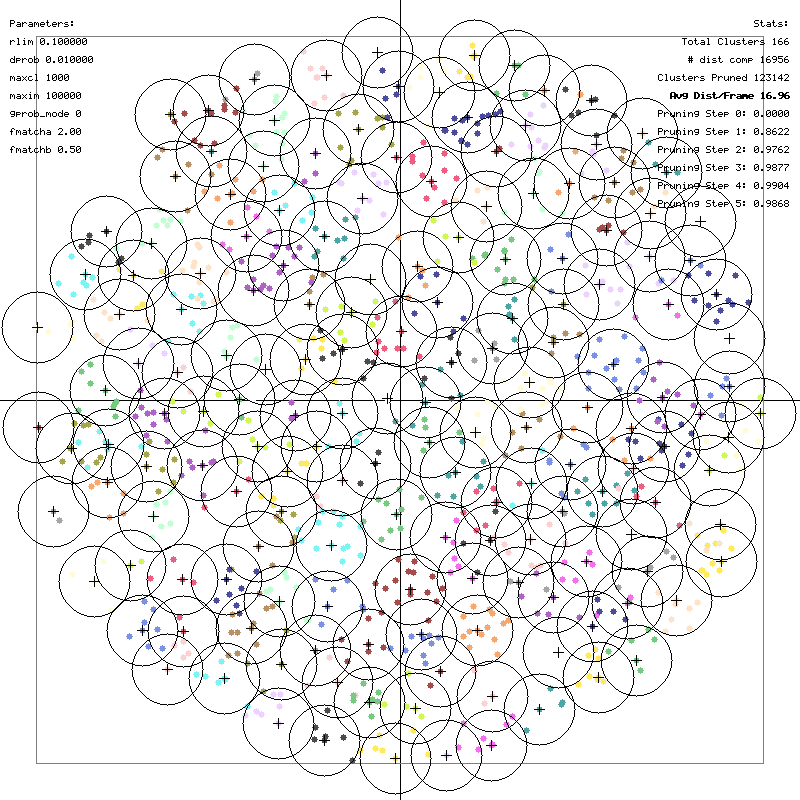
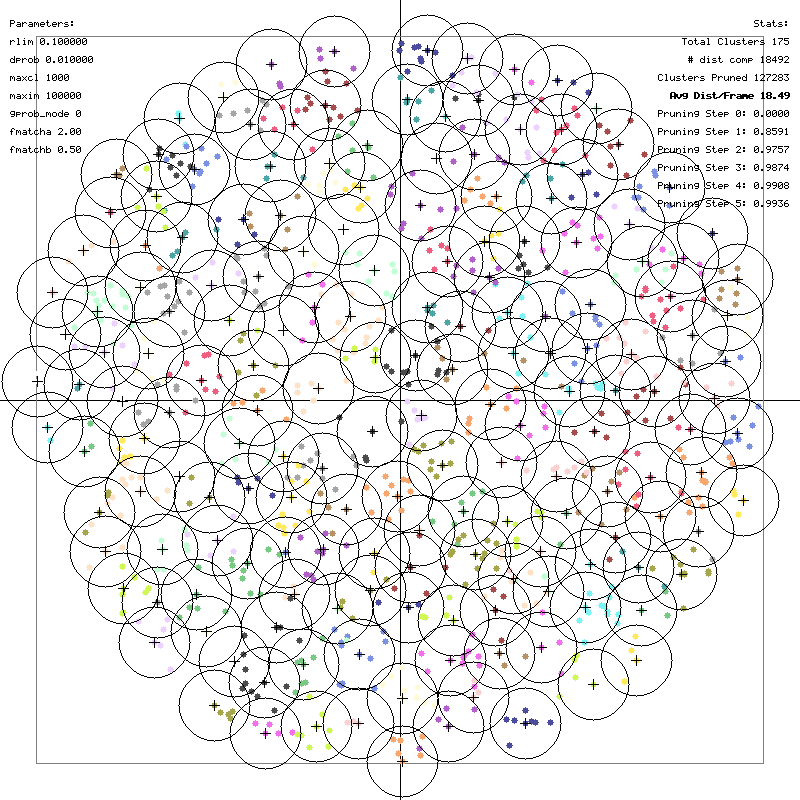
Remove noise from slow spiral benchmark

diff --git a/wiki/Benchmarks.md b/wiki/Benchmarks.md
@@ -13,14 +13,14 @@ A point moving slowly along a spiral trajectory. This tests the algorithm's "sho
 
 **Command**:
 ```bash
-./image-cluster-mktxtseq 1000 bench_spiral_slow.txt 2Dspiral3 -noise 0.03
+./image-cluster-mktxtseq 1000 bench_spiral_slow.txt 2Dspiral3
 ./image-cluster 0.1 bench_spiral_slow.txt
 ```
 
 **Result**:
 ![Spiral Slow](images/bench_spiral_slow.png)
-*   **Time**: ~32 ms
-*   **Calls**: ~17k (for 1000 frames)
+*   **Time**: ~25 ms
+*   **Calls**: ~18.5k (for 1000 frames)
 
 ## 2. Random Point on 2D Circle
 
